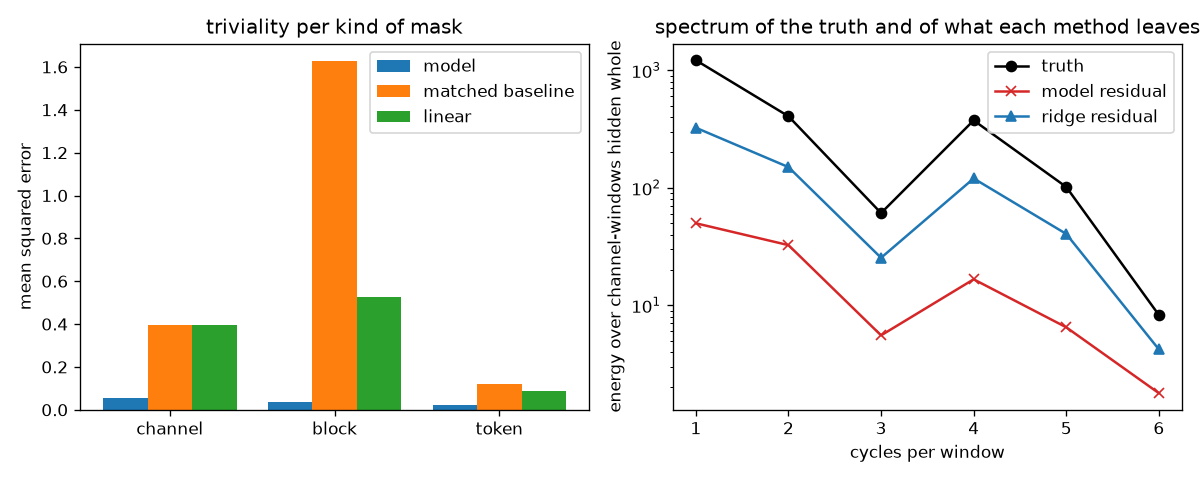
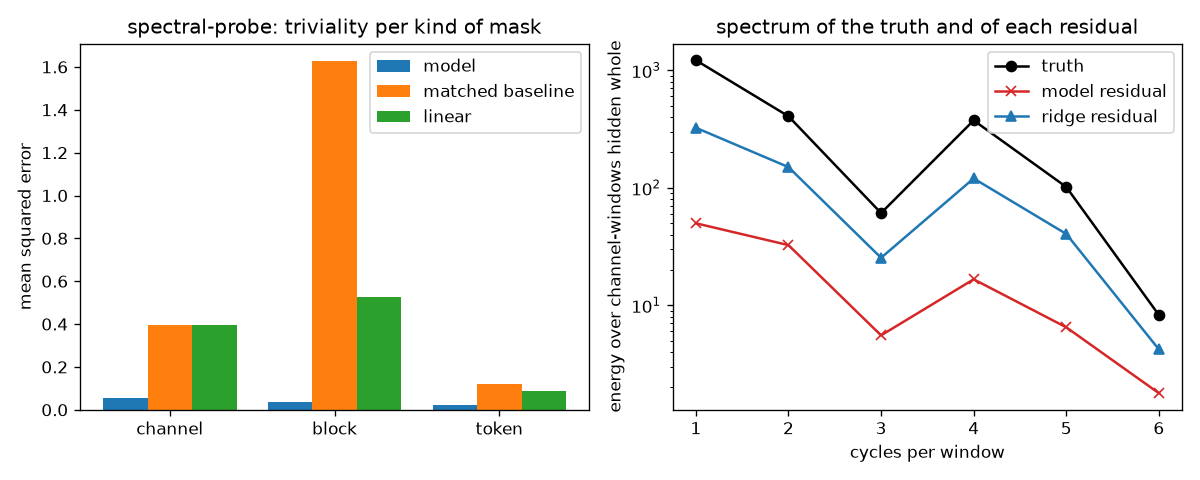
docs(pretraining): repeat the control runs through the training runtime (T-2.3)
The figures are redrawn from the runs of 2026-09-16 stored under
data/report/results; the note keeps one set rather than one per leg, so the
legs of 2026-09-13 and 2026-09-14 keep their numbers without their drawings.

Changed region(s): [[0.555, 0.0312, 1.0, 0.0938], [0.0925, 0.0312, 0.4625, 0.0938]]

diff --git a/docs/verification/masked-reconstruction.md b/docs/verification/masked-reconstruction.md
@@ -38,17 +38,29 @@ Method, on any machine with the repository:
 ```sh
 uv sync --all-extras
 uv run pytest tests/pretraining tests/ml/test_objective_overfits_one_batch.py tests/scripts/test_masked_reconstruction_report.py
-uv run scripts/masked_reconstruction_report.py                       # tier S, every corpus
-uv run scripts/masked_reconstruction_report.py --shape 64,2,2,256 --epochs 12 --learning-rate 3e-3   # what a CPU affords
+uv run scripts/masked_reconstruction_report.py                                  # every experiment in experiments/
+uv run scripts/masked_reconstruction_report.py --experiment control-a-s --track http://127.0.0.1:5000   # one, logged to the local stack
+uv run scripts/masked_reconstruction_report.py --figures-only data/report/results/<run>              # redraw a stored run
+uv run scripts/masked_reconstruction_report.py --figures-only data/report/results/<run> --figures docs/verification/figures   # into a note
 ```
 
 Nothing is downloaded: the corpora are generated and published through the same use cases the
-command line runs. The training loop is the report's own — plain Adam, no checkpoints, no tracker
-— and is superseded by the training runtime, not extended.
+command line runs. A run is the experiment file it names (ADR-0022), trained by the training
+runtime through the pretraining use case (ADR-0021); a machine that cannot afford the tier's encoder
+writes a smaller shape into a file of its own rather than onto the command line. The legs below
+predate both: they ran the report's own loop — plain Adam, no checkpoints, no tracker — configured
+by flags that no longer exist, and each records the shape, rate and epochs it ran with.
+
+A run draws its figures into its own stored directory, so a smoke run (`--units`, a short
+`--epochs`) leaves the figures of a note alone, and a figure reaches the note by the last command,
+from a run that can draw it again. The repository keeps one set of figures — the newest run's, the
+leg of 2026-09-16 — rather than a set per leg; the earlier legs' numbers stay, and their runs were
+stored before the store kept what a figure is drawn from, so those drawings are gone.
 
 The runs below are in the order they happened. The first leg is a small encoder on a CPU and the
-answers it gave; the second is the published tier on Apple silicon, after the corrections the
-first leg called for. What changed between them, and what did not, is the point of keeping both.
+answers it gave; the second is the published tier on Apple silicon, after the corrections the first
+leg called for; the third repeats the second after the report handed its training to the training
+runtime. What changed between them, and what did not, is the point of keeping all three.
 
 ## 2026-09-13 — Windows AMD64, CPU, cut-down encoder — control-a
 
@@ -223,6 +235,10 @@ compared with a shorter run of the same code, as the convergence rule requires. 
 not repeat bit for bit on MPS (see [Repeatability](#repeatability-on-mps)): every repeat so far gave
 the same verdicts, with final losses up to 9% apart.
 
+The figures of this leg are not in the repository. It keeps one set — the newest run's, in the leg
+of 2026-09-16 below, which repeats this one on the same experiments and the same seed — rather than
+a set per leg that says the same thing.
+
 ### Configuration
 
 Common to every run: windows of 32 steps with a stride of 12; a quarter of the units held out for
@@ -250,10 +266,6 @@ A channel "apart" is timeless or constant: it is tallied in a row of its own and
 Losses are mean squared errors on hidden tokens in normalised units. The baselines are scored over
 the same hidden tokens as the model. The validation loss ends within 0.1% of its best epoch on all
 three corpora, and at 0.97–1.08× the training loss.
-
-![control-a loss](figures/masked-reconstruction-control-a-loss.png)
-![control-b loss](figures/masked-reconstruction-control-b-loss.png)
-![spectral-probe loss](figures/masked-reconstruction-spectral-probe-loss.png)
 
 ### Triviality per kind of mask
 
@@ -299,9 +311,6 @@ The assessment accepts all three runs. Two warnings stand:
   calls convergence, although no verdict changed.
 - **The spectrum is uninformative on the controls.** See below.
 
-![control-a diagnostics](figures/masked-reconstruction-control-a-diagnostics.png)
-![control-b diagnostics](figures/masked-reconstruction-control-b-diagnostics.png)
-
 ### Spectral recovery of channels hidden whole
 
 On the controls the truth holds 99.4% (control-a) and 100% (control-b) of its energy at one cycle
@@ -321,13 +330,11 @@ question:
 Fitted over 901 channel-windows, 1 too short to fit. The model recovers at least 91% of the energy
 at every frequency that carries signal, so it does not recover only the low frequencies.
 
-![spectral-probe diagnostics](figures/masked-reconstruction-spectral-probe-diagnostics.png)
-
 ### Reconstructions
 
 One channel per kind of mask from the first validation windows: truth as a line, visible tokens as
 dots, the model's predictions (red crosses) and the matched baseline's (blue triangles) on the
-tokens that kind hid.
+tokens that kind hid. What was seen in them, drawing by drawing:
 
 - **spectral-probe.** Inside hidden blocks the model follows the oscillation through several cycles
   where interpolation draws a straight line (`w2 s04`, `w32 s01`). On channels hidden whole it keeps
@@ -343,10 +350,6 @@ tokens that kind hid.
   with control-b's highest channel error (0.2435, 40× the floor).
 
 The reconstructions are sensible, not exact.
-
-![control-a windows](figures/masked-reconstruction-control-a-windows.png)
-![control-b windows](figures/masked-reconstruction-control-b-windows.png)
-![spectral-probe windows](figures/masked-reconstruction-spectral-probe-windows.png)
 
 ### Training budget
 
@@ -411,3 +414,101 @@ learnt. The cause of the spread has not been isolated.
   that count.
 - The training loop is the report's minimal one: no checkpoints, no experiment tracker and no
   precision policy. The training runtime replaces it.
+
+## 2026-09-16 — macOS arm64, MPS, tier S, trained by the training runtime
+
+The report no longer trains: it assembles the pretraining use case, the training runtime trains
+behind its port, and the diagnostics score the model read back out of the store (ADR-0021). This
+leg asks what that change did to the verdicts, on the same experiments, the same seed and the same
+machine as the leg above. It also leaves runs whose figures can be drawn again from what they
+stored.
+
+### Provenance
+
+| | |
+| --- | --- |
+| Machine | macOS-26.6.2-arm64-arm-64bit-Mach-O, Apple silicon, MPS |
+| Python, torch | 3.14.7, 2.14.0 |
+| Code | the training-loop branch, working tree; the report's source digest `86cc49bc532ca3ef` |
+| Commands | `… --experiment control-a-s --experiment spectral-probe-s --epochs 12 --track http://127.0.0.1:5000`, then `… --experiment control-b-s --epochs 10 --track …`, then `uv run scripts/masked_reconstruction_report.py --track …` |
+| Stored runs | `data/report/results/{control-a-20260916-004026, control-b-20260916-004850, spectral-probe-20260916-005106}`, each compared with its half-budget run (`control-a-20260916-003223`, `control-b-20260916-003919`, `spectral-probe-20260916-003712`) |
+| Tracked runs | the same six, in MLflow, each under the name of its directory; the stored run holds that name and the checksum of the weights the tracker tagged |
+| Figures | `figures/`, redrawn from the three stored runs; the note keeps this one set |
+
+### Loss
+
+| Corpus | Validation loss, epoch 1 → last | Last, 2026-09-14 | Interpolation | Ridge | Hidden share |
+| --- | --- | --- | --- | --- | --- |
+| control-a | 0.3949 → 0.0140 (÷28.2) | 0.0139 | 0.4712 | 0.1693 | 46.0% |
+| control-b | 0.6912 → 0.1485 (÷4.7) | 0.1314 | 0.7342 | 0.4893 | 45.8% |
+| spectral-probe | 1.0199 → 0.0409 (÷25.0) | 0.0409 | 1.2289 | 0.4701 | 45.7% |
+
+Every first epoch, every baseline and every hidden share repeat the leg above to the digit; the
+baselines are computed on the host and do not depend on the loop. control-b ends 13% above its run
+of two days ago, which is wider than the 9% this machine had shown between repeats until now and
+is the only corpus that moved; its verdicts do not.
+
+![control-a loss](figures/masked-reconstruction-control-a-loss.png)
+![control-b loss](figures/masked-reconstruction-control-b-loss.png)
+![spectral-probe loss](figures/masked-reconstruction-spectral-probe-loss.png)
+
+### Triviality per kind of mask
+
+| Corpus | Kind | Tokens / units | Model | Matched baseline | Excess [95%] | Beyond linear [95%] |
+| --- | --- | --- | --- | --- | --- | --- |
+| control-a | channel | 56,902 / 40 | 0.0213 | ridge 0.1656 | [+0.1244, +0.1656] learnt | — |
+| control-a | block | 97,141 / 40 | 0.0081 | interpolation 0.2467 | [+0.1982, +0.2793] learnt | [+0.0781, +0.1046] learnt |
+| control-a | token | 23,145 / 40 | 0.0060 | interpolation 0.0135 | [+0.0044, +0.0113] learnt | [+0.0041, +0.0103] learnt |
+| control-b | channel | 9,572 / 30 | 0.2934 | ridge 0.4774 | [+0.1525, +0.2179] learnt | — |
+| control-b | block | 16,022 / 30 | 0.0668 | interpolation 0.6957 | [+0.5391, +0.7221] learnt | [+0.1760, +0.2289] learnt |
+| control-b | token | 3,882 / 30 | 0.0565 | interpolation 0.1137 | [+0.0458, +0.0686] learnt | [+0.0362, +0.0485] learnt |
+| spectral-probe | channel | 28,286 / 20 | 0.0561 | ridge 0.3964 | [+0.2906, +0.3907] learnt | — |
+| spectral-probe | block | 49,884 / 20 | 0.0352 | interpolation 1.6275 | [+1.3606, +1.8388] learnt | [+0.4099, +0.5800] learnt |
+| spectral-probe | token | 11,768 / 20 | 0.0206 | interpolation 0.1191 | [+0.0755, +0.1225] learnt | [+0.0542, +0.0848] learnt |
+
+**All nine kinds are `learnt` again, and the assessment accepts all three runs.** On control-a and
+the spectral probe the model's errors repeat the leg above to four decimals (0.0209 against 0.0213
+for channels, 0.0081 and 0.0060 unchanged, and every spectral-probe error unchanged), and the
+intervals with them. control-b's channel masks are the one place the change shows: 0.2934 against
+0.2435, an interval of [+0.1525, +0.2179] against [+0.2000, +0.2710]. That is the same corpus whose
+final loss moved, and the verdict does not depend on it.
+
+![control-a diagnostics](figures/masked-reconstruction-control-a-diagnostics.png)
+![control-b diagnostics](figures/masked-reconstruction-control-b-diagnostics.png)
+
+### Spectral recovery of channels hidden whole
+
+The spectral probe gives back exactly what it gave two days ago: 96%, 92%, 91%, 96%, 94% and 78% of
+the truth's energy at one to six cycles per window, against the ridge's 73% to 49%, over 901
+channel-windows with 1 too short to fit. On the controls the spectrum stays uninformative, 99.4%
+and 100% of the energy sitting at one cycle per window.
+
+![spectral-probe diagnostics](figures/masked-reconstruction-spectral-probe-diagnostics.png)
+
+### Warnings that stand
+
+- **Convergence is still not shown.** Doubling the budget from half lowered the final validation
+  loss by 27.8% (control-a), 20.6% (control-b) and 43.0% (spectral probe), against the 5% the rule
+  calls convergence; no verdict changed at either budget.
+- **The spectrum is uninformative on the controls**, as before.
+
+### Reconstructions
+
+The drawn windows say what they said above: inside hidden blocks the model follows the truth and
+leaves the step-to-step wiggles out, on a channel hidden whole (`w1 s02` of control-a) it keeps the
+shape and overshoots in the second half while the ridge stays flat, and single tokens between dense
+neighbours sit on the line both methods draw.
+
+![control-a windows](figures/masked-reconstruction-control-a-windows.png)
+![control-b windows](figures/masked-reconstruction-control-b-windows.png)
+![spectral-probe windows](figures/masked-reconstruction-spectral-probe-windows.png)
+
+### What this leg says
+
+- **Training through the runtime changed no verdict**, and on two corpora of three it changed no
+  number that matters beyond the fourth decimal.
+- **A run is now findable from both ends**: the stored run names the tracked one and the checksum
+  of its weights, which the tracker holds as a tag, and both take the name of the directory.
+- **These figures can be drawn again** from the stored runs, which the drawings of the legs above
+  could not be; that is why the note shows this leg's.
+- The training took 23 minutes for six runs on this machine, 19–23 s an epoch of control-a.

diff --git a/docs/verification/README.md b/docs/verification/README.md
@@ -17,8 +17,8 @@ result is reproducible and its age is visible.
 | [published-corpus.md](published-corpus.md) | a corpus publishes to a remote bucket and comes back byte for byte; the checksum of a block and of its manifest repeat across machines |
 | [synthetic-control.md](synthetic-control.md) | the generated control pair shares structure and the null pair does not, by a margin fixed before the measurement; checksums agree on arm64 and x86 |
 | [encoder.md](encoder.md) | what full self-attention costs at the default window of every measured corpus: exact parameters per tier, attention buffers per window, a training step per window |
-| [masked-reconstruction.md](masked-reconstruction.md) | the objective trained on the positive control: the loss falls, the reconstructions follow the signal, and each kind of mask is measured against its trivial baseline with an interval; which frequencies a hidden channel gets back |
-| [training-loop.md](training-loop.md) | a run interrupted inside an epoch and resumed from its checkpoint ends in the weights the uninterrupted run ended in; what a checkpoint costs and which precisions a machine runs |
+| [masked-reconstruction.md](masked-reconstruction.md) | the objective trained on the positive control: the loss falls, the reconstructions follow the signal, and each kind of mask is measured against its trivial baseline with an interval; which frequencies a hidden channel gets back; that the verdicts survived the report handing its training to the training runtime |
+| [training-loop.md](training-loop.md) | a run interrupted inside an epoch and resumed from its checkpoint ends in the weights the uninterrupted run ended in — bit for bit on the host, within the spread between repeats on MPS at fp32 and fp16; a run logged to the local MLflow server; what a checkpoint costs and which precisions a machine runs |
 
 Add one file per verification, named `<topic>.md`. Never overwrite a previous run: append a new
 dated section, so that the note reads as the history of the measurement and not only its latest
